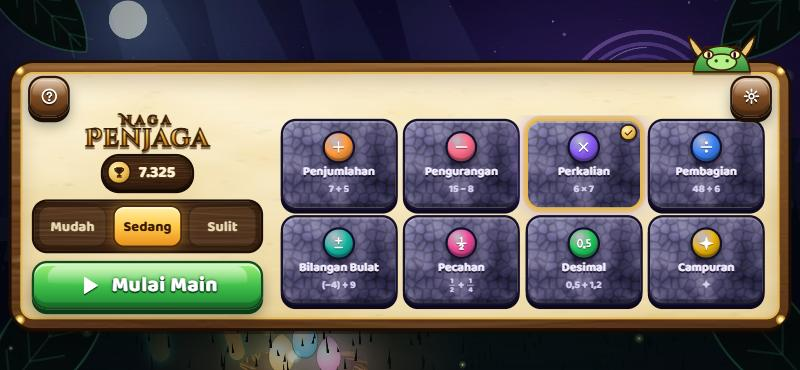
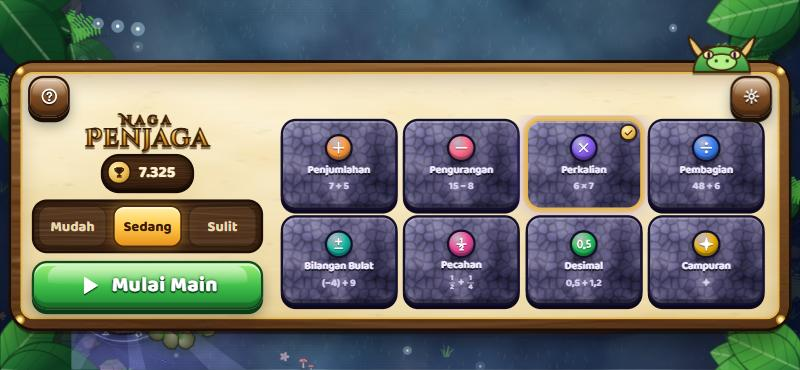
Revisi 9 tahap d+e: verifikasi rekor, polish responsif halaman awal (320-1440, lanskap kecil), cek kata terpotong di resp

diff --git a/js/dev/resp.js b/js/dev/resp.js
@@ -25,6 +25,7 @@
     { const st = document.getElementById('s-start'), bad = [], small = [];
       st.querySelectorAll('button').forEach(function (b) { const r = b.getBoundingClientRect(); if (r.width < 1) return; if (r.height < 43.5 || r.width < 43.5) small.push((b.id || b.dataset.act || b.className) + ' ' + Math.round(r.width) + 'x' + Math.round(r.height)); if (r.bottom > vh + 1 || r.top < -1) bad.push('luar layar:' + (b.id || b.dataset.id)); });
       const cats = document.getElementById('st-cats'), pn = st.querySelector('.k-panel').getBoundingClientRect(), land = vw > vh;
+      { const cx = document.createElement('canvas').getContext('2d'), broken = []; st.querySelectorAll('.k-cname').forEach(function (n) { const cs = getComputedStyle(n); cx.font = cs.fontWeight + ' ' + cs.fontSize + ' ' + cs.fontFamily; if ('letterSpacing' in cx) cx.letterSpacing = cs.letterSpacing === 'normal' ? '0px' : cs.letterSpacing; const w = Math.max.apply(null, n.textContent.split(' ').map(function (t) { return cx.measureText(t).width; })); if (w > n.clientWidth + 0.5) broken.push(n.textContent + ' ' + Math.round(w) + '>' + n.clientWidth); }); if (broken.length) issues.push('start: kata nama kategori terpotong: ' + broken.slice(0, 3).join(', ')); }
       if (small.length) issues.push('start: target sentuh < 44px: ' + small.slice(0, 4).join(', '));
       if (bad.length) issues.push('start: ' + bad.slice(0, 4).join(', '));
       if (land && vh <= 520 && cats.scrollHeight > cats.clientHeight + 2) issues.push('start: kartu perlu gulir di lanskap pendek (' + cats.scrollHeight + '>' + cats.clientHeight + ')');

diff --git a/css/start.css b/css/start.css
@@ -58,3 +58,22 @@ body:not(.st-on) #splash { display: none; }
   .st-go .k-big { min-height: 50px; font-size: 22px; }
   .st-catwrap .k-eyebrow { display: none; }
 }
+
+/* layar sangat sempit (≤ 360px): ikon kecil + nama 12px supaya kata tidak terpotong di tengah */
+@media (max-width: 360px) and (min-height: 521px) {
+  .st-cats .k-cat { column-gap: 6px; padding: 6px 4px 6px 6px; }
+  .st-cats .k-medal { width: 32px; height: 32px; } .st-cats .k-medal .ic { width: 18px; height: 18px; }
+  .st-cats .k-cname { font-size: 12px; overflow-wrap: normal; word-break: normal; hyphens: none; } .st-cats .k-cex { font-size: 11px; }
+}
+@media (max-width: 340px) and (min-height: 521px) {
+  .st-cats .k-medal { width: 28px; height: 28px; } .st-cats .k-medal .ic { width: 16px; height: 16px; }
+  .st-cats .k-cname { font-size: 11px; letter-spacing: -.02em; }
+}
+@media (max-height: 520px) and (max-width: 1000px) and (orientation: landscape) {
+  .st-cats .k-cname { font-size: 11.5px; letter-spacing: -.02em; } .st-cats .k-cat { padding: 4px 2px; } .st-cats .k-medal { width: 30px; height: 30px; }
+}
+@media (max-height: 520px) and (max-width: 720px) and (orientation: landscape) {
+  .st-board > .k-body { grid-template-columns: minmax(196px, .55fr) minmax(0, 1.9fr); column-gap: 8px; padding-left: 8px; padding-right: 8px; }
+  .st-diff .k-seg-i { font-size: 14px; padding: 4px 2px; } .st-go .k-big { font-size: 18px; padding: 8px 10px; }
+}
+.st-go .k-btn span { white-space: nowrap; }

diff --git a/docs/rev9-de-laporan.md b/docs/rev9-de-laporan.md
@@ -1,0 +1,14 @@
+# Revisi 9 · Tahap d + e — rekor dan polish responsif
+
+## d — Rekor
+Logika rekor sudah masuk di commit b+c; tahap ini memverifikasinya (tes `?test=1`, alur penuh):
+- Chip Rekor = `Storage.highScore` (global; cara hitung dan simpan tidak berubah, data lama utuh, termasuk simpanan v1/v2 → mis. 28975 tetap terbaca dan tampil "28.975").
+- Rekor dicatat di akhir permainan (menang Stage 3 atau Game Over); `adv.best0`/`adv.announced` mencegah "Rekor baru!" muncul dua kali setelah Ulangi. Tampil di layar hasil akhir dan overview Game Over.
+- Skor yang dicapai di stage yang selesai tetap menaikkan rekor secara diam-diam (tidak hilang bila pemain keluar lewat Menu).
+- Chip diperbarui saat halaman awal ditampilkan lagi dan setelah Hapus Data.
+
+## e — Responsif dan polish
+`?resp=1` (`GA.Resp.check`) kini juga memeriksa halaman awal: target sentuh ≥ 44 px, papan muat di layar, kartu tidak perlu gulir di lanskap pendek, dan **kata nama kategori tidak terpotong** (diukur dengan canvas + letter-spacing). Bersih di: 1440×900, 1024×768, 768×1024, 932×430, 844×390, 667×375, 390×844, 360×640, 320×568.
+Perbaikan dari temuan: nama kategori dipatahkan di tengah kata pada ≤ 360 px dan lanskap kecil (font 11–12 px, tanpa `overflow-wrap:anywhere`), kolom kiri lanskap ≤ 720 px dipersempit, tombol "Mulai Main" tidak membungkus (`nowrap`), ruang atas di lanskap pendek supaya tombol ? dan gerigi tidak menimpa kartu.
+Catatan di luar cakupan (popup Jeda tidak diubah): lencana stage di popup Jeda terpotong ("Stage 2 · Gunung &…") pada lebar 320 px; sudah begitu sebelumnya.
+Screenshot: `docs/screenshots/rev9-start-{1440x900,390x844,844x390,667x375}.jpg`.
